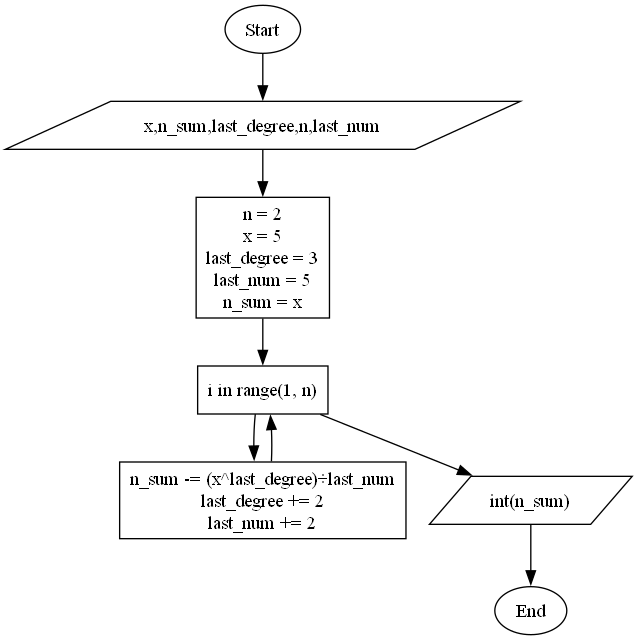
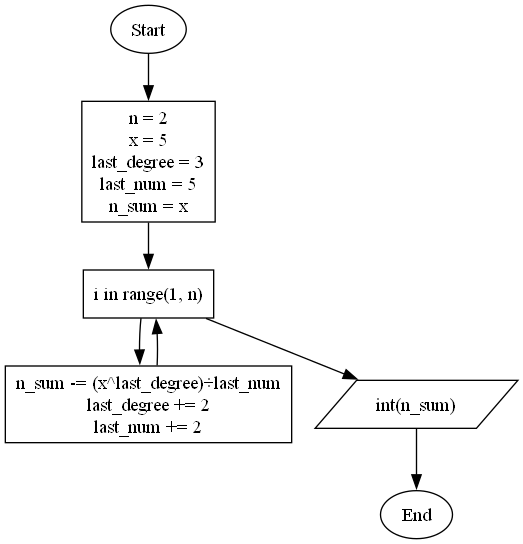
deleted adding of extra elements

Changed region(s): [[0.0, 0.0, 1.0, 1.0], [0.7036, 0.9375, 0.7342, 0.9688], [0.2141, 0.0625, 0.2447, 0.0938]]

diff --git a/PyChart/BlockDiagram.py b/PyChart/BlockDiagram.py
@@ -48,12 +48,12 @@ class BlockDiagram(ABC):
         if name == 'main':
             name = ''
 
-        if self._variables:
-            self._diagram['blocks'].insert(0, self._form_block(','.join(self._variables),
-                                                               {'y': self._last_y,
-                                                                'x': self._last_x},
-                                                               uuid.uuid1().hex, '0',
-                                                               'Input / Output'))
+        # if self._variables:
+        #     self._diagram['blocks'].insert(0, self._form_block(','.join(self._variables),
+        #                                                        {'y': self._last_y,
+        #                                                         'x': self._last_x},
+        #                                                        uuid.uuid1().hex, '0',
+        #                                                        'Input / Output'))
         self._diagram['blocks'].insert(0,
                                        self._form_block(f'Start {name}',
                                                         {'y': self._last_y - 100,

diff --git a/Py2BlockDiagram.py b/Py2BlockDiagram.py
@@ -1,4 +1,6 @@
+import re
 from PyChart import BlockDiagram
+
 
 class Py2BlockDiagram(BlockDiagram):
 
@@ -34,4 +36,7 @@ class Py2BlockDiagram(BlockDiagram):
             return "Input / Output"  # Input/Output operations
         elif line.startswith("start") or line.startswith("end"):
             return "Start / end"  # Start/End points
+        # Присваивание типа x = 5, y = x * 2
+        elif re.match(r"^[a-z_]\w*\s*=\s*[^=]", line):
+            return "Block"
         return "Block"  # General block

diff --git a/Py2PseudoCode.py b/Py2PseudoCode.py
@@ -43,4 +43,5 @@ class Py2PseudoCode(PseudoCode):
                     else:
                         pseudocode += f'{line}\n'
 
+        print(pseudocode)
         return pseudocode
